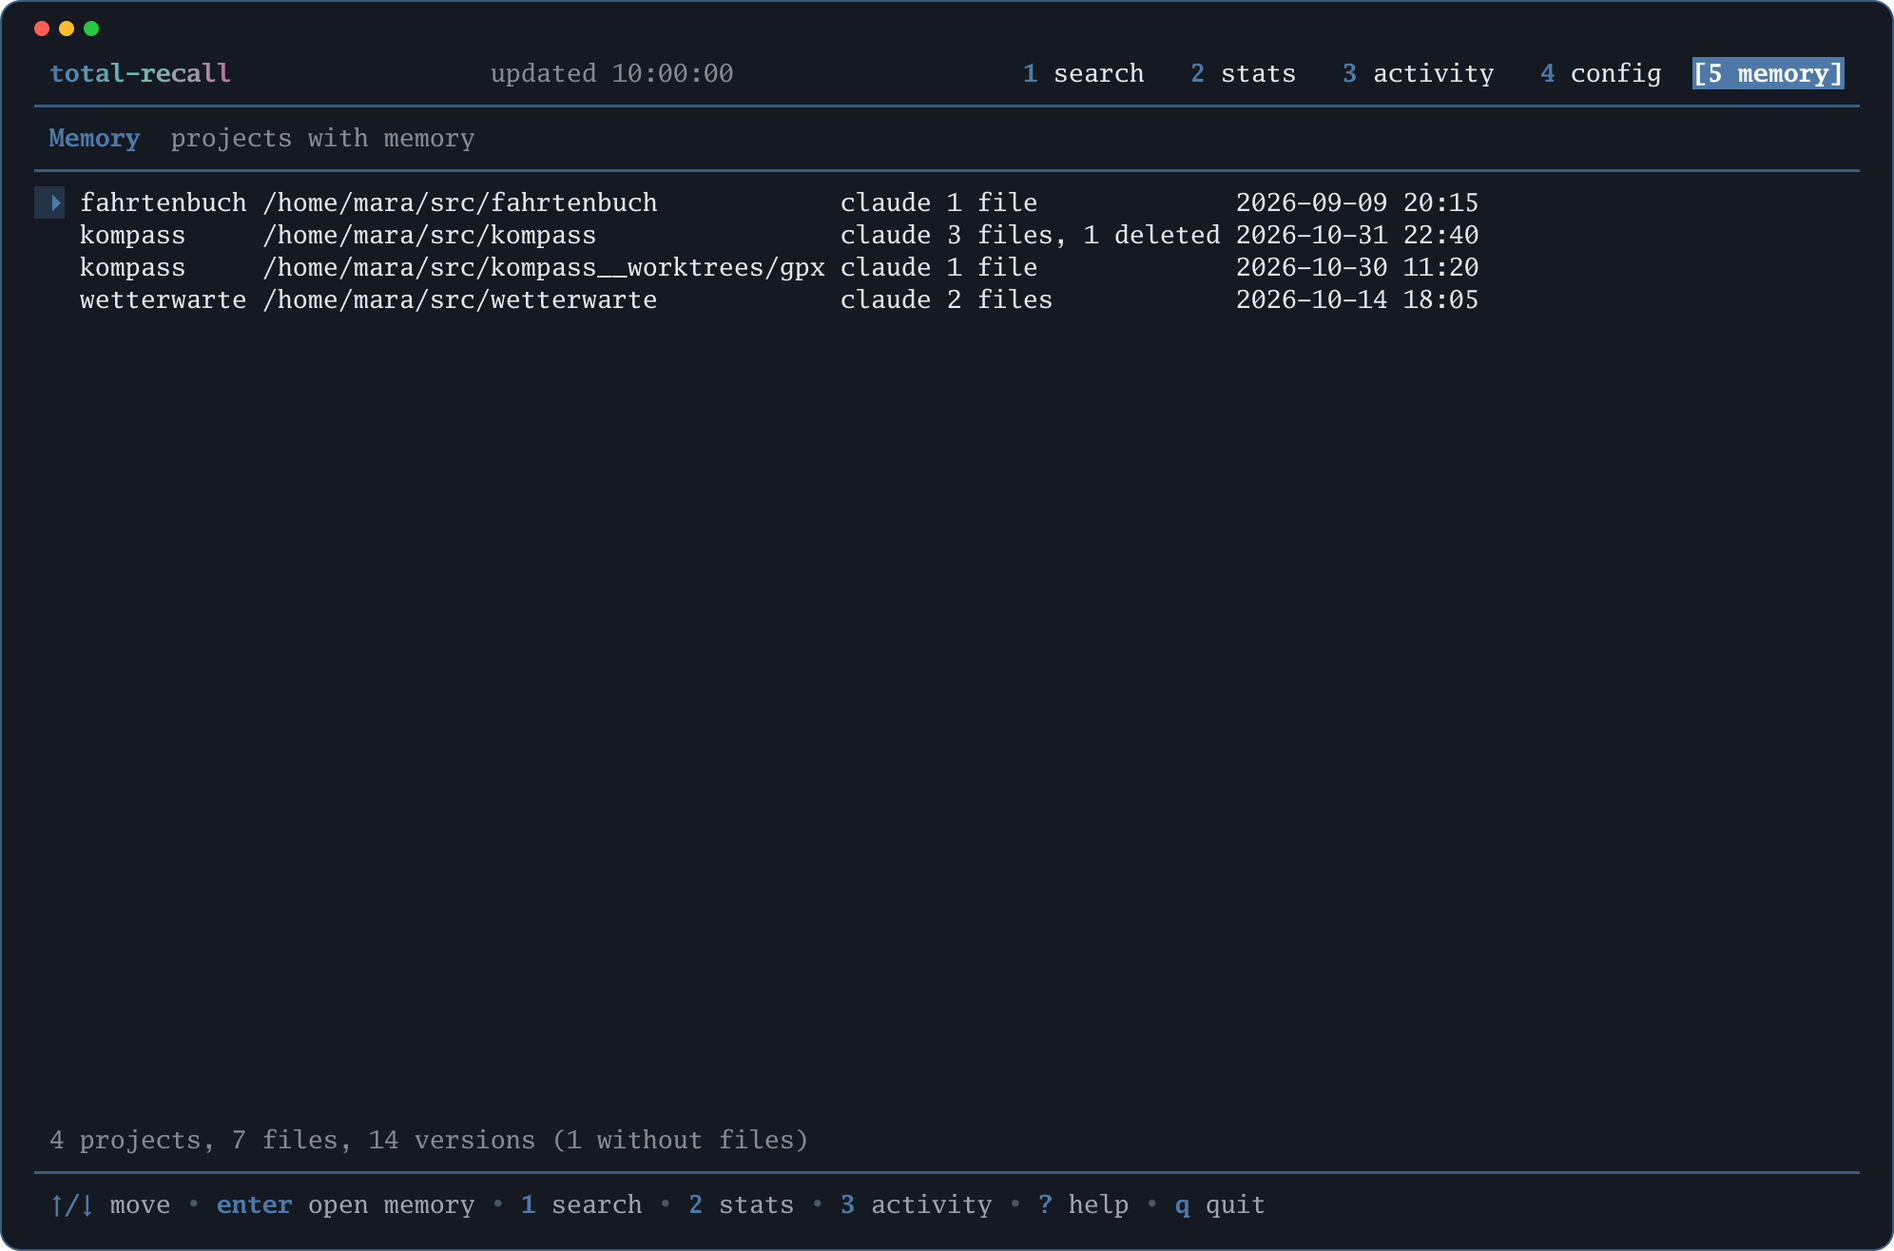
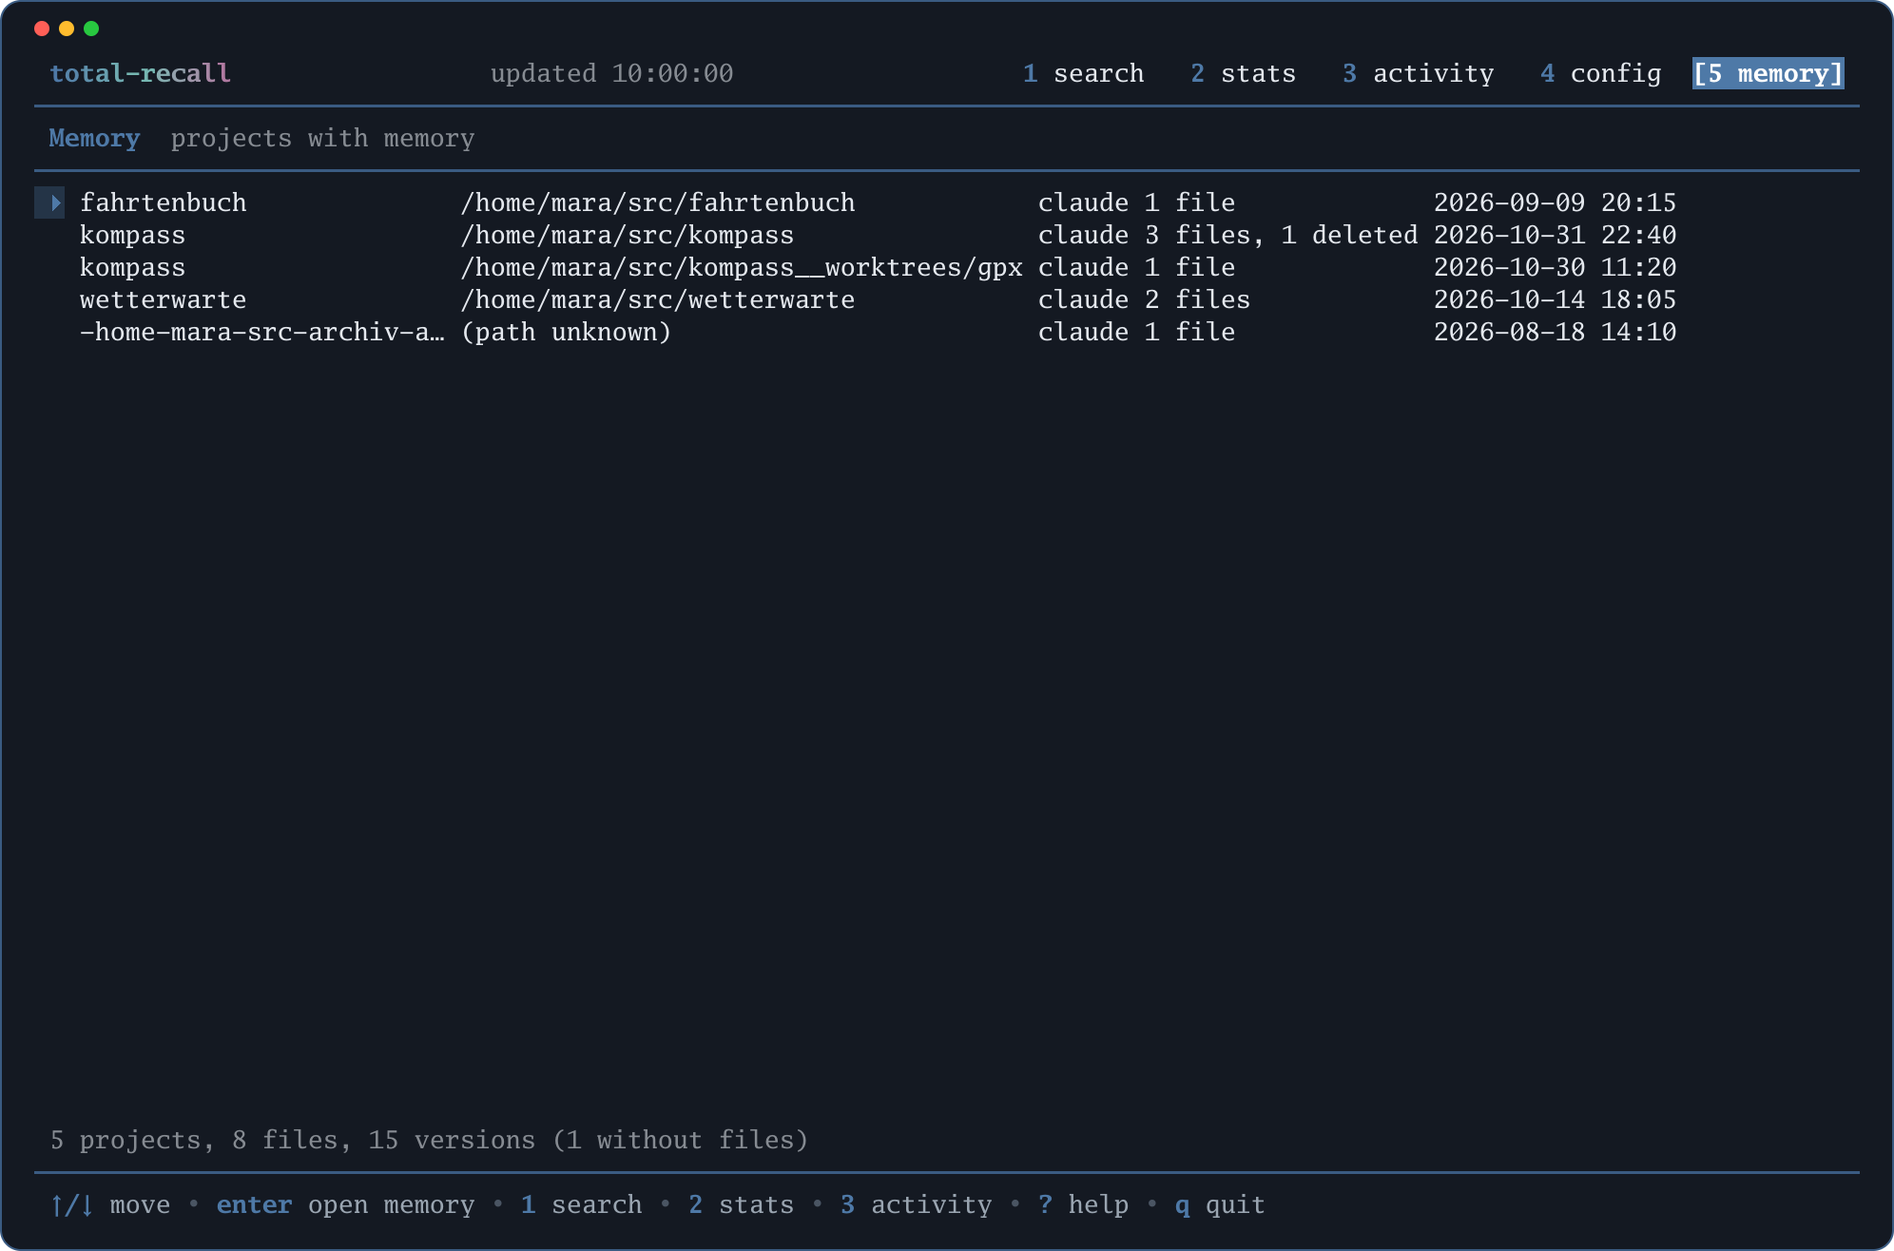
fix(memory): project path only from sessions or a verified key, demo project without session (#382)

Changed region(s): [[0.0622, 0.1558, 0.9026, 0.2804]]

diff --git a/internal/screenshot/frames_test.go b/internal/screenshot/frames_test.go
@@ -80,7 +80,7 @@ func TestRenderAll(t *testing.T) {
 		"memory":                   {"› memory", "kompass  memory  claude", "▸ release-process.md", "✗ old-notes.md", "deleted", "3 files, 1 deleted", "goreleaser"},
 		"search-type-click":        {"[u input]", "e event", "ctrl+click adds a type"},
 		"search-type-click-add":    {"[u input]", "[g answer]", "e event"},
-		"memory-tab":               {"[5 memory]", "projects with memory", "▸ fahrtenbuch", "kompass", "wetterwarte", "1 file ", "3 files, 1 deleted", "/home/mara/src/kompass__worktrees/gpx", "4 projects, 7 files, 14 versions (1 without files)", "enter open memory"},
+		"memory-tab":               {"[5 memory]", "projects with memory", "▸ fahrtenbuch", "kompass", "wetterwarte", "1 file ", "3 files, 1 deleted", "/home/mara/src/kompass__worktrees/gpx", "(path unknown)", "-home-mara-src-archiv-a", "5 projects, 8 files, 15 versions (1 without files)", "enter open memory"},
 		"memory-tab-viewer":        {"[5 memory] › kompass", "kompass  memory  claude", "▸ MEMORY.md", "✗ old-notes.md"},
 		"session-memory":           {"› memory", "kompass  memory  claude", "▸ MEMORY.md"},
 		"memory-history":           {"› memory", "history of release-process.md", "version 2 of 3", "now", "2026-10-24 09:50"},

diff --git a/internal/demo/content.go b/internal/demo/content.go
@@ -76,6 +76,9 @@ var (
 		titles:  []string{"GPX-Import", "Tracks mit Zeitstempeln", "GPX-Fixtures", "Streaming-Parser für große Dateien"},
 		prompts: kompass.prompts, replies: kompass.replies, tools: kompass.tools,
 	}
+	// archivAlt has memory but no session in the archive: nothing tells its
+	// directory (the key of the harness is lossy), see the memory tab.
+	archivAlt   = &project{key: "archiv-alt", cwd: Home + "/src/archiv-alt"}
 	wetterwarte = &project{
 		key: "wetterwarte", cwd: Home + "/src/wetterwarte", root: Home + "/src/wetterwarte", remote: remoteBase + "wetterwarte", branch: "main", weight: 24,
 		titles: []string{

diff --git a/internal/demo/memory.go b/internal/demo/memory.go
@@ -79,6 +79,14 @@ values over a five-minute window. The rain gauge counts tips, one tip is
 - GPX import: the parser must accept files without a time stamp per point.
 `, at(time.October, 30, 11, 20)},
 	},
+	// Memory of a project that has no session in the archive: the memory
+	// tab cannot tell its directory and says so.
+	archivAlt: {
+		{"MEMORY.md", `# Memory
+
+- The old archive tool is retired; keep the notes until the move is done.
+`, at(time.August, 18, 14, 10)},
+	},
 	// A memory directory without any file: the memory tab leaves it out.
 	notizen: {},
 	fahrtenbuch: {

diff --git a/internal/tui/memtab/memtab.go b/internal/tui/memtab/memtab.go
@@ -155,6 +155,14 @@ func (m Model) load() tea.Cmd {
 			rows = append(rows, Row{MemoryProject: p, Name: name, Path: path, PathSource: src})
 		}
 		slices.SortStableFunc(rows, func(a, b Row) int {
+			// Projects whose directory is unknown (named by their raw key)
+			// come last, so the mark starts on a real project.
+			if ua, ub := a.PathSource == project.PathUnknown, b.PathSource == project.PathUnknown; ua != ub {
+				if ua {
+					return 1
+				}
+				return -1
+			}
 			if c := strings.Compare(a.Name, b.Name); c != 0 {
 				return c
 			}

diff --git a/internal/tui/memtab/memtab_test.go b/internal/tui/memtab/memtab_test.go
@@ -41,8 +41,10 @@ func TestListsProjectsWithMemory(t *testing.T) {
 		}
 	}
 	for i := 1; i < len(m.rows); i++ {
-		if m.rows[i-1].Name > m.rows[i].Name {
-			t.Errorf("rows not sorted by name: %q before %q", m.rows[i-1].Name, m.rows[i].Name)
+		// Rows of an unknown directory (named by their key) come last.
+		a, b := m.rows[i-1], m.rows[i]
+		if au, bu := a.PathSource == "unknown", b.PathSource == "unknown"; au && !bu || au == bu && a.Name > b.Name {
+			t.Errorf("rows not sorted by name, unknown last: %q before %q", a.Name, b.Name)
 		}
 	}
 }

diff --git a/internal/project/memorypath.go b/internal/project/memorypath.go
@@ -57,7 +57,7 @@ func MemoryPathIn(p store.MemoryProject, home string, read DirReader) (path, sou
 func encodeSegment(s string) string {
 	b := []byte(s)
 	for i, c := range b {
-		if !(c >= 'a' && c <= 'z' || c >= 'A' && c <= 'Z' || c >= '0' && c <= '9') {
+		if (c < 'a' || c > 'z') && (c < 'A' || c > 'Z') && (c < '0' || c > '9') {
 			b[i] = '-'
 		}
 	}

diff --git a/docs/reference/10-befehle.md b/docs/reference/10-befehle.md
@@ -292,14 +292,15 @@ total-recall blob 5e0c9a41d2b7                     # Inhalt einer Fassung
 ```
 
 ```text
-PROJECT      PATH                                   FILE                CHANGED           SIZE   VERSIONS
-fahrtenbuch  /home/mara/src/fahrtenbuch             MEMORY.md           2026-09-09 20:15  101 B  1
-kompass      /home/mara/src/kompass                 MEMORY.md           2026-10-31 22:40  177 B  4
-kompass      /home/mara/src/kompass                 conventions.md      2026-10-28 09:30  308 B  1
-kompass      /home/mara/src/kompass                 release-process.md  2026-10-31 22:35  695 B  3
-kompass      /home/mara/src/kompass__worktrees/gpx  MEMORY.md           2026-10-30 11:20  85 B   1
-wetterwarte  /home/mara/src/wetterwarte             MEMORY.md           2026-10-14 18:05  91 B   1
-wetterwarte  /home/mara/src/wetterwarte             sensors.md          2026-10-14 18:00  323 B  1
+PROJECT                    PATH                                   FILE                CHANGED           SIZE   VERSIONS
+-home-mara-src-archiv-alt  (path unknown)                         MEMORY.md           2026-08-18 14:10  84 B   1
+fahrtenbuch                /home/mara/src/fahrtenbuch             MEMORY.md           2026-09-09 20:15  101 B  1
+kompass                    /home/mara/src/kompass                 MEMORY.md           2026-10-31 22:40  177 B  4
+kompass                    /home/mara/src/kompass                 conventions.md      2026-10-28 09:30  308 B  1
+kompass                    /home/mara/src/kompass                 release-process.md  2026-10-31 22:35  695 B  3
+kompass                    /home/mara/src/kompass__worktrees/gpx  MEMORY.md           2026-10-30 11:20  85 B   1
+wetterwarte                /home/mara/src/wetterwarte             MEMORY.md           2026-10-14 18:05  91 B   1
+wetterwarte                /home/mara/src/wetterwarte             sensors.md          2026-10-14 18:00  323 B  1
 ```
 
 Die Zeitleiste und der Verlauf einer Datei (Demo-Archiv):
@@ -333,7 +334,7 @@ CHANGED           OBSERVED          SIZE   SHA256        PROJECT  FILE
 | `--raw`, `--limit N` | mit `--grep`: Anfrage unverändert an FTS5 wie bei `search --raw`; höchstens N Treffer (0 = alle) |
 | `--format`, `--json` | wie bei den [lesenden Befehlen](#ausgabe) |
 
-**In der TUI.** Die Liste der Projekte mit Gedächtnis, die der Aufruf ohne Option zeigt, ist der Reiter **`5 memory`** (`total-recall tui memory` startet dort): je Verzeichnis Name, Pfad, Harness, Zahl der Dateien (und gelöschten) und letzte Änderung; ++enter++ oder ein zweiter Klick öffnet den [Memory-Viewer](30-tui.md#memory) des Projekts, ohne Suche. Aus einer Session führt `M` zum Gedächtnis ihres Projekts. Die Spalte `PATH` ist dieselbe wie im Reiter (Arbeitsverzeichnis, sonst Repository, sonst der aus dem Schlüssel zurückgerechnete Pfad; `~` für das Home-Verzeichnis) und unterscheidet zwei Verzeichnisse desselben Projekts; in `--json` heißt das Feld `project_path`. Die Ausgabe von `total-recall memory` gegen das Demo-Archiv:
+**In der TUI.** Die Liste der Projekte mit Gedächtnis, die der Aufruf ohne Option zeigt, ist der Reiter **`5 memory`** (`total-recall tui memory` startet dort): je Verzeichnis Name, Pfad, Harness, Zahl der Dateien (und gelöschten) und letzte Änderung; ++enter++ oder ein zweiter Klick öffnet den [Memory-Viewer](30-tui.md#memory) des Projekts, ohne Suche. Aus einer Session führt `M` zum Gedächtnis ihres Projekts. Die Spalte `PATH` ist dieselbe wie im Reiter (Arbeitsverzeichnis oder Repository einer Session, `~` für das Home-Verzeichnis) und unterscheidet zwei Verzeichnisse desselben Projekts; in `--json` heißt das Feld `project_path`. **Der Pfad wird nie geraten:** Hat ein Projekt keine Session im Archiv, kennt nur der Schlüssel der Harness das Verzeichnis, und der ist verlustbehaftet (Claude Code schreibt jedes Zeichen außer Buchstaben und Ziffern als `-`; aus `mein-projekt/web-app` wird `mein-projekt-web-app`). `total-recall` setzt den Pfad daraus nur zusammen, wenn er auf diesem Rechner als Verzeichnis existiert und der einzige ist, der zum Schlüssel passt (`project_path_source` `key`); sonst steht `(path unknown)`, `project_path` ist `null` (`project_path_source` `unknown`) und der Name ist der Schlüssel, im Demo-Archiv das Projekt `-home-mara-src-archiv-alt` ohne Session. Gedächtnis auf einem anderen Rechner als dem, der es erzeugt hat, hat deshalb oft keinen Pfad. Die Ausgabe von `total-recall memory` gegen das Demo-Archiv:
 
 ```text
 PROJECT      FILE                CHANGED           SIZE   VERSIONS
@@ -366,7 +367,7 @@ wetterwarte  sensors.md          2026-10-14 18:00  323 B  1
 
 **Zeiten.** `CHANGED` (JSON `changed`, bei `--history` `ts`) ist die Änderungszeit der Datei, als das Archiv die Fassung sah; bei einer Löschung die Zeit des Laufs, der sie bemerkte. `--history` zeigt daneben `OBSERVED` (`observed_at`), wann der Lauf die Fassung aufgenommen hat. Ändert der Agent eine Datei zweimal zwischen zwei Läufen, kennt das Archiv nur die zweite Fassung; da jeder Hook nachsieht, ist das selten.
 
-**JSON.** Ohne Option je Datei ein Objekt: `project`, `project_path` (lesbarer Ort des Gedächtnis-Verzeichnisses: Arbeitsverzeichnis, sonst Repository, sonst der aus dem Schlüssel zurückgerechnete Pfad, `~` für das Home-Verzeichnis; dieselbe Spalte wie im Reiter `5 memory`, sie unterscheidet zwei Verzeichnisse desselben Projekts), `project_key` (Schlüssel der Harness), `harness`, `cwd` und `git_root` des Projekts (`null`, solange unbekannt), `path`, `sha256` (`null` bei gelöschten), `bytes`, `deleted`, `changed` (UTC), `versions` (Fassungen bis dahin, Löschungen mitgezählt). `--history`: je Fassung `project`, `project_key`, `harness`, `path`, `ts`, `observed_at`, `sha256` (`null` bei einer Löschung), `bytes`, `deleted`. `--timeline`: je Änderung `project`, `project_key`, `harness`, `path`, `kind`, `ts`, `observed_at`, `sha256` (`null` bei einer Löschung), `bytes`, `prev_ts` und `prev_sha256` (`null`, außer bei `changed`), `delta_bytes`; die `delta_bytes` einer Datei ergeben ihre Größe jetzt (0 nach einer Löschung), ein Test prüft das an der `--json`-Ausgabe. `--grep`: je Treffer `project`, `project_key`, `harness`, `path`, `sha256`, `changed`, `snippet` (Treffer in `[…]`).
+**JSON.** Ohne Option je Datei ein Objekt: `project`, `project_path` (lesbarer Ort des Gedächtnis-Verzeichnisses: Arbeitsverzeichnis oder Repository einer Session, `~` für das Home-Verzeichnis; dieselbe Spalte wie im Reiter `5 memory`, sie unterscheidet zwei Verzeichnisse desselben Projekts; `null`, solange der Ort nicht feststeht, siehe `project_path_source`), `project_path_source` (`cwd`, `git_root`, `key` oder `unknown`), `project_key` (Schlüssel der Harness), `harness`, `cwd` und `git_root` des Projekts (`null`, solange unbekannt), `path`, `sha256` (`null` bei gelöschten), `bytes`, `deleted`, `changed` (UTC), `versions` (Fassungen bis dahin, Löschungen mitgezählt). `--history`: je Fassung `project`, `project_key`, `harness`, `path`, `ts`, `observed_at`, `sha256` (`null` bei einer Löschung), `bytes`, `deleted`. `--timeline`: je Änderung `project`, `project_key`, `harness`, `path`, `kind`, `ts`, `observed_at`, `sha256` (`null` bei einer Löschung), `bytes`, `prev_ts` und `prev_sha256` (`null`, außer bei `changed`), `delta_bytes`; die `delta_bytes` einer Datei ergeben ihre Größe jetzt (0 nach einer Löschung), ein Test prüft das an der `--json`-Ausgabe. `--grep`: je Treffer `project`, `project_key`, `harness`, `path`, `sha256`, `changed`, `snippet` (Treffer in `[…]`).
 
 **Projektzuordnung.** Das Archiv kennt das Projekt über den Schlüssel der Harness. Das Verzeichnis dazu liest der Adapter aus einem Transkript des Projekts; gibt es keins mehr, sucht er unter den Sessions im Archiv ein Arbeitsverzeichnis, das zu dem Schlüssel passt. Findet er keins, bleibt `cwd` leer, und das Projekt heißt wie sein Schlüssel; ein späterer Lauf trägt das Verzeichnis nach, sobald eine Session dafür auftaucht.
 

diff --git a/docs/reference/30-tui.md b/docs/reference/30-tui.md
@@ -370,11 +370,11 @@ Das Gedächtnis hat einen **Reiter** in der Kopfzeile (`5 memory`, Taste `5`, `t
 
 ### Reiter memory { #memory-reiter }
 
-Der Reiter listet die **Projekte mit Gedächtnis**, nach Name sortiert, mit demselben Namen wie `stats --by project` (Definitionen `[[project]]` zuerst). Je Zeile stehen der Name, der **Pfad** des Verzeichnisses (Arbeitsverzeichnis, sonst Repository, sonst der aus dem Schlüssel der Harness zurückgerechnete Pfad; `~` für das Home-Verzeichnis), der Harness, die Zahl der Dateien (bei gelöschten mit Zusatz, `3 files, 1 deleted`) und der Zeitpunkt der letzten Änderung (`-`, wenn es keinen gibt). Ein Projekt mit mehreren Gedächtnis-Verzeichnissen steht mehrfach, der Pfad unterscheidet die Zeilen; Name und Pfad sind nie der rohe Schlüssel (`-Users-…`). Die Spalten stehen untereinander, ein zu langer Pfad wird links gekürzt (`…`), denn sein Ende unterscheidet. Verzeichnisse ganz ohne Datei blendet der Reiter aus; die Statuszeile zählt sie (`(1 without files)`) und nennt Projekte, Dateien und Versionen. Das ist die Liste, die der Befehl [`memory`](10-befehle.md#memory) je Projekt zusammenfasst.
+Der Reiter listet die **Projekte mit Gedächtnis**, nach Name sortiert, mit demselben Namen wie `stats --by project` (Definitionen `[[project]]` zuerst). Je Zeile stehen der Name, der **Pfad** des Verzeichnisses (Arbeitsverzeichnis oder Repository einer Session; `~` für das Home-Verzeichnis), der Harness, die Zahl der Dateien (bei gelöschten mit Zusatz, `3 files, 1 deleted`) und der Zeitpunkt der letzten Änderung (`-`, wenn es keinen gibt). Ein Projekt mit mehreren Gedächtnis-Verzeichnissen steht mehrfach, der Pfad unterscheidet die Zeilen; Ein Projekt ohne Session im Archiv kennt nur den Schlüssel der Harness, und der ist verlustbehaftet (jedes Zeichen außer Buchstaben und Ziffern ist ein `-`): Sein Pfad wird nur gezeigt, wenn er auf diesem Rechner existiert und der einzige ist, der zum Schlüssel passt. Sonst steht `(path unknown)` und der Name ist der Schlüssel (`-home-mara-src-archiv-alt` im Demo-Archiv); solche Zeilen stehen am Ende der Liste. Ein falscher Pfad erscheint nie als sicher. Die Spalten stehen untereinander, ein zu langer Pfad wird links gekürzt (`…`), denn sein Ende unterscheidet. Verzeichnisse ganz ohne Datei blendet der Reiter aus; die Statuszeile zählt sie (`(1 without files)`) und nennt Projekte, Dateien und Versionen. Das ist die Liste, die der Befehl [`memory`](10-befehle.md#memory) je Projekt zusammenfasst.
 
-![Reiter memory: die Projekte mit Gedächtnis, je Verzeichnis Name, Pfad, Harness, Zahl der Dateien und letzte Änderung (`kompass` zweimal, ein leeres Verzeichnis ist ausgeblendet); Enter oder ein zweiter Klick öffnet das Gedächtnis](../assets/screenshots/memory-tab.png)
+![Reiter memory: die Projekte mit Gedächtnis, je Verzeichnis Name, Pfad, Harness, Zahl der Dateien und letzte Änderung (`kompass` zweimal, ein Projekt ohne bekannten Pfad am Ende, ein leeres Verzeichnis ist ausgeblendet); Enter oder ein zweiter Klick öffnet das Gedächtnis](../assets/screenshots/memory-tab.png)
 
-*Reiter memory: die Projekte mit Gedächtnis, je Verzeichnis Name, Pfad, Harness, Zahl der Dateien und letzte Änderung (`kompass` zweimal, ein leeres Verzeichnis ist ausgeblendet); Enter oder ein zweiter Klick öffnet das Gedächtnis*
+*Reiter memory: die Projekte mit Gedächtnis, je Verzeichnis Name, Pfad, Harness, Zahl der Dateien und letzte Änderung (`kompass` zweimal, ein Projekt ohne bekannten Pfad am Ende, ein leeres Verzeichnis ist ausgeblendet); Enter oder ein zweiter Klick öffnet das Gedächtnis*
 
 **Bedienung.** Mit der Maus: ein Klick auf `5 memory` in der Kopfzeile öffnet den Reiter, das Rad oder ein Klick auf eine Zeile bewegt die Markierung, ein zweiter Klick auf die markierte Zeile öffnet das Gedächtnis des Projekts. Mit der Tastatur: `5`, ++up++/++down++ (`k`/`j`) oder ++pgup++/++pgdn++, ++enter++ öffnet. Der Viewer liegt als Ebene über dem Reiter, die Kopfzeile zeigt `[5 memory] › kompass`; ++esc++ führt zurück in die Projektliste, die Markierung bleibt.
 

diff --git a/docs/reference/90-aenderungen.md b/docs/reference/90-aenderungen.md
@@ -24,6 +24,7 @@ Meilenstein v1.10.0: Die Suche kennt feinere Objekttypen (CLI, TUI, MCP), das Pr
 
 ### Behoben
 
+- **Pfad im Gedächtnis nie geraten** ([#382](https://github.com/seletz/total-recall/issues/382)): Für Projekte ohne Session im Archiv wurde `project_path` (Reiter `5 memory`, `memory`, `--json`) aus dem Schlüssel der Harness gebaut, jeder Bindestrich als `/`; bei Verzeichnissen mit Bindestrich im Namen entstanden Pfade, die es nicht gibt. Jetzt kommt der Pfad aus den Sessions (`cwd`, Repository) oder aus dem Schlüssel nur, wenn das Verzeichnis auf diesem Rechner existiert und das einzige ist, das zum Schlüssel passt. Sonst zeigen Reiter und Tabelle `(path unknown)`, der Name ist der Schlüssel, das JSON hat `project_path: null`. Neues Feld `project_path_source` (`cwd`, `git_root`, `key`, `unknown`). Das Demo-Archiv hat ein Projekt ohne Session, der Screenshot `memory-tab` zeigt es. Die Tabulatoren, die ein Mitschnitt der Statistik-Fußzeile zeigte, stammen vom Renderer (Cursor-Sprünge über Leerraum), nicht aus dem Inhalt; ein Test prüft, dass keine Fußzeile ein Tabulatorzeichen enthält.
 - **Actor-Filter der TUI bei Typen mit festem Actor** ([#373](https://github.com/seletz/total-recall/issues/373)): Die TUI übergeht den Filter bei `input`, `answer`, `tool_call`, `tool_result` und `file` weiterhin (die CLI meldet dort einen `usage`-Fehler), sagt es aber jetzt: Die Eingabezeile zeigt `actor: agent (not input)`; dasselbe gilt für `attach:` und `raw`, wo ein gewählter Typ sie nicht anwendet. Neuer Screenshot: `search-actor-ignored`.
 - **`search --tool`** ([#374](https://github.com/seletz/total-recall/issues/374)): Der Vergleich ignoriert jetzt Groß- und Kleinschreibung (`--tool bash` lieferte still 0 Treffer, `--tool Bash` viele); `--tool` ohne `--type` heißt `--type tool_call` (vorher ein `usage`-Fehler); der JSON-Treffer jedes Event-Typs hat das Feld `tool_name` (das Tool eines Aufrufs, sonst `null`; neues Feld, kein Bruch), in CLI und MCP.
 - **Reiter `5 memory` mit echtem Archiv** ([#375](https://github.com/seletz/total-recall/issues/375)): Zeilen mit gleichem Projektnamen sind jetzt durch eine Pfad-Spalte unterscheidbar, rohe Schlüssel (`-Users-…`) erscheinen nicht mehr (Name und Pfad werden daraus zurückgerechnet), Verzeichnisse ohne Datei sind ausgeblendet (die Statuszeile zählt sie) und die Spalten stehen untereinander, ein fehlendes Datum zeigt `-`. `memory` der CLI hat dieselbe Pfad-Spalte (`PATH`, JSON-Feld `project_path`, auch bei `--history`, `--timeline` und `--grep`), auf demselben Weg berechnet. Das Demo-Archiv hat dafür ein zweites Gedächtnis-Verzeichnis von `kompass` und ein leeres; die Screenshots `memory-tab` und die Listen zeigen es.
